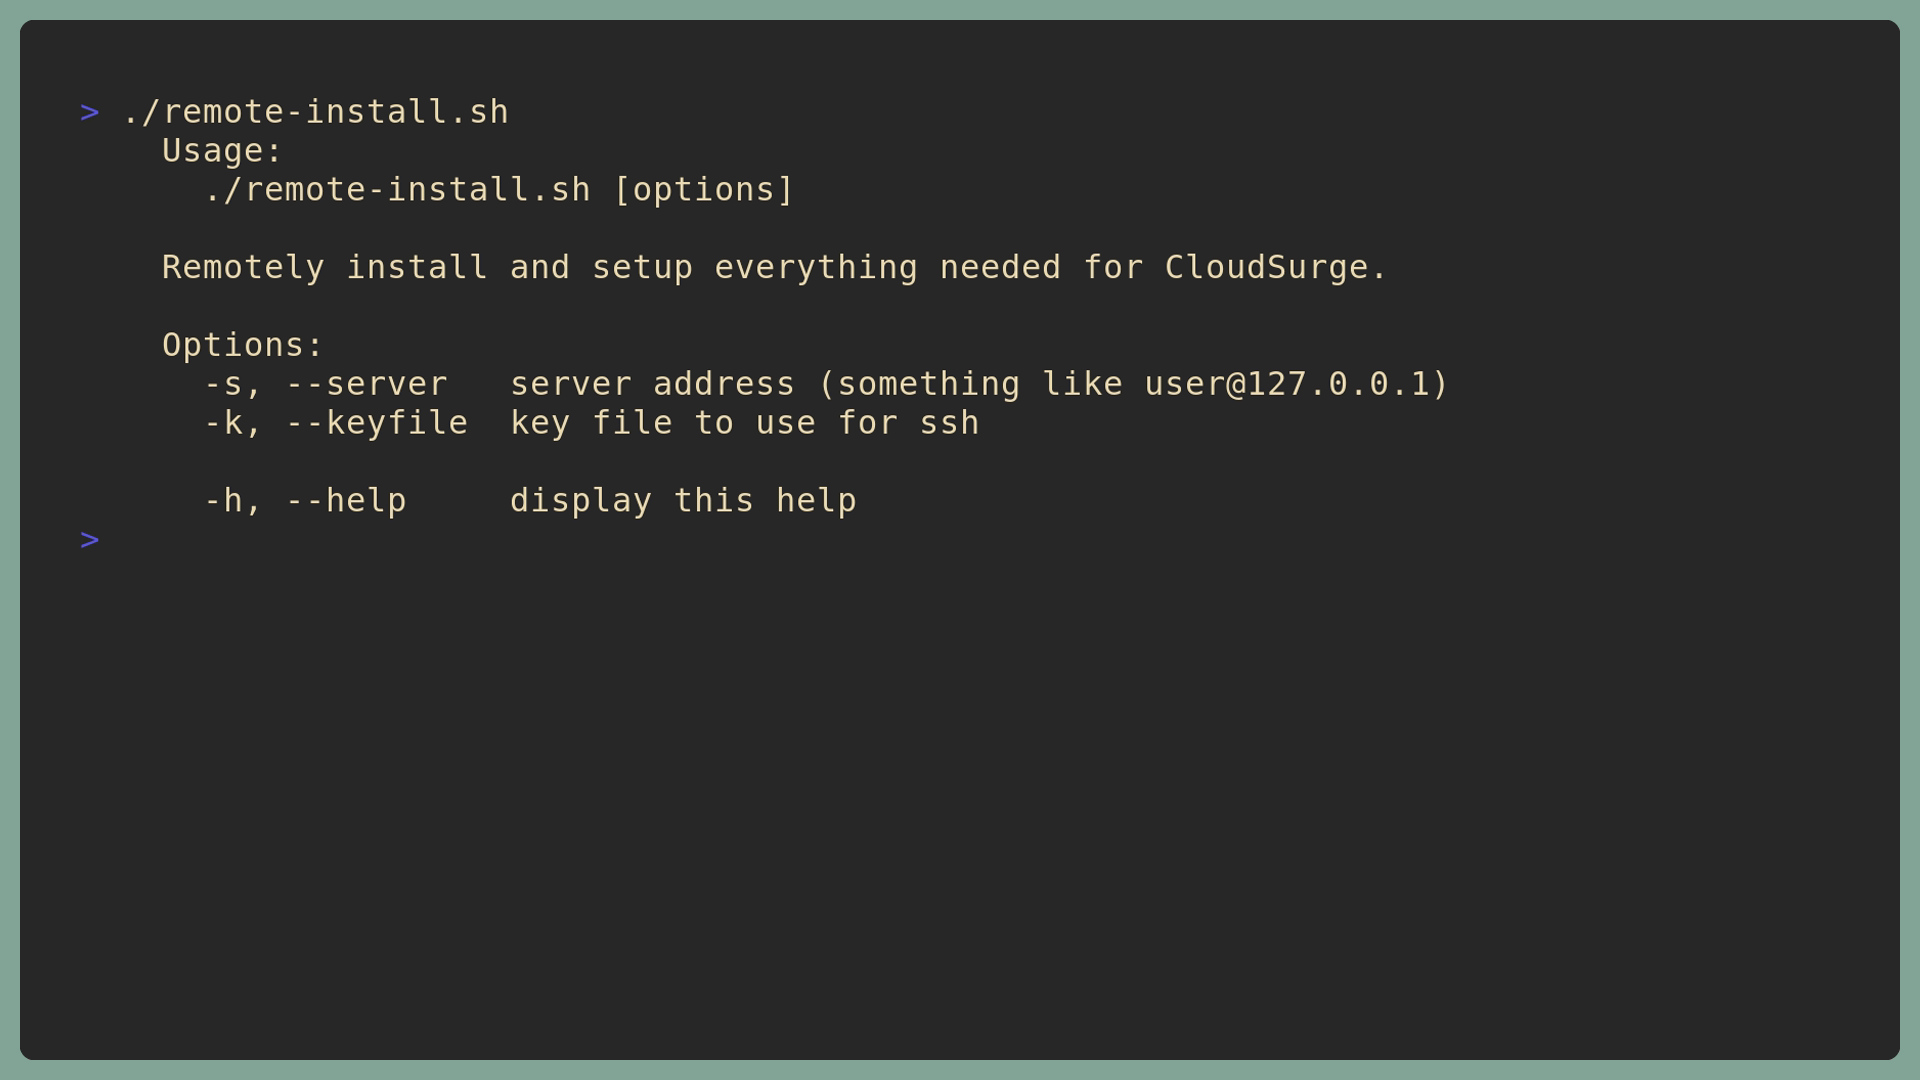
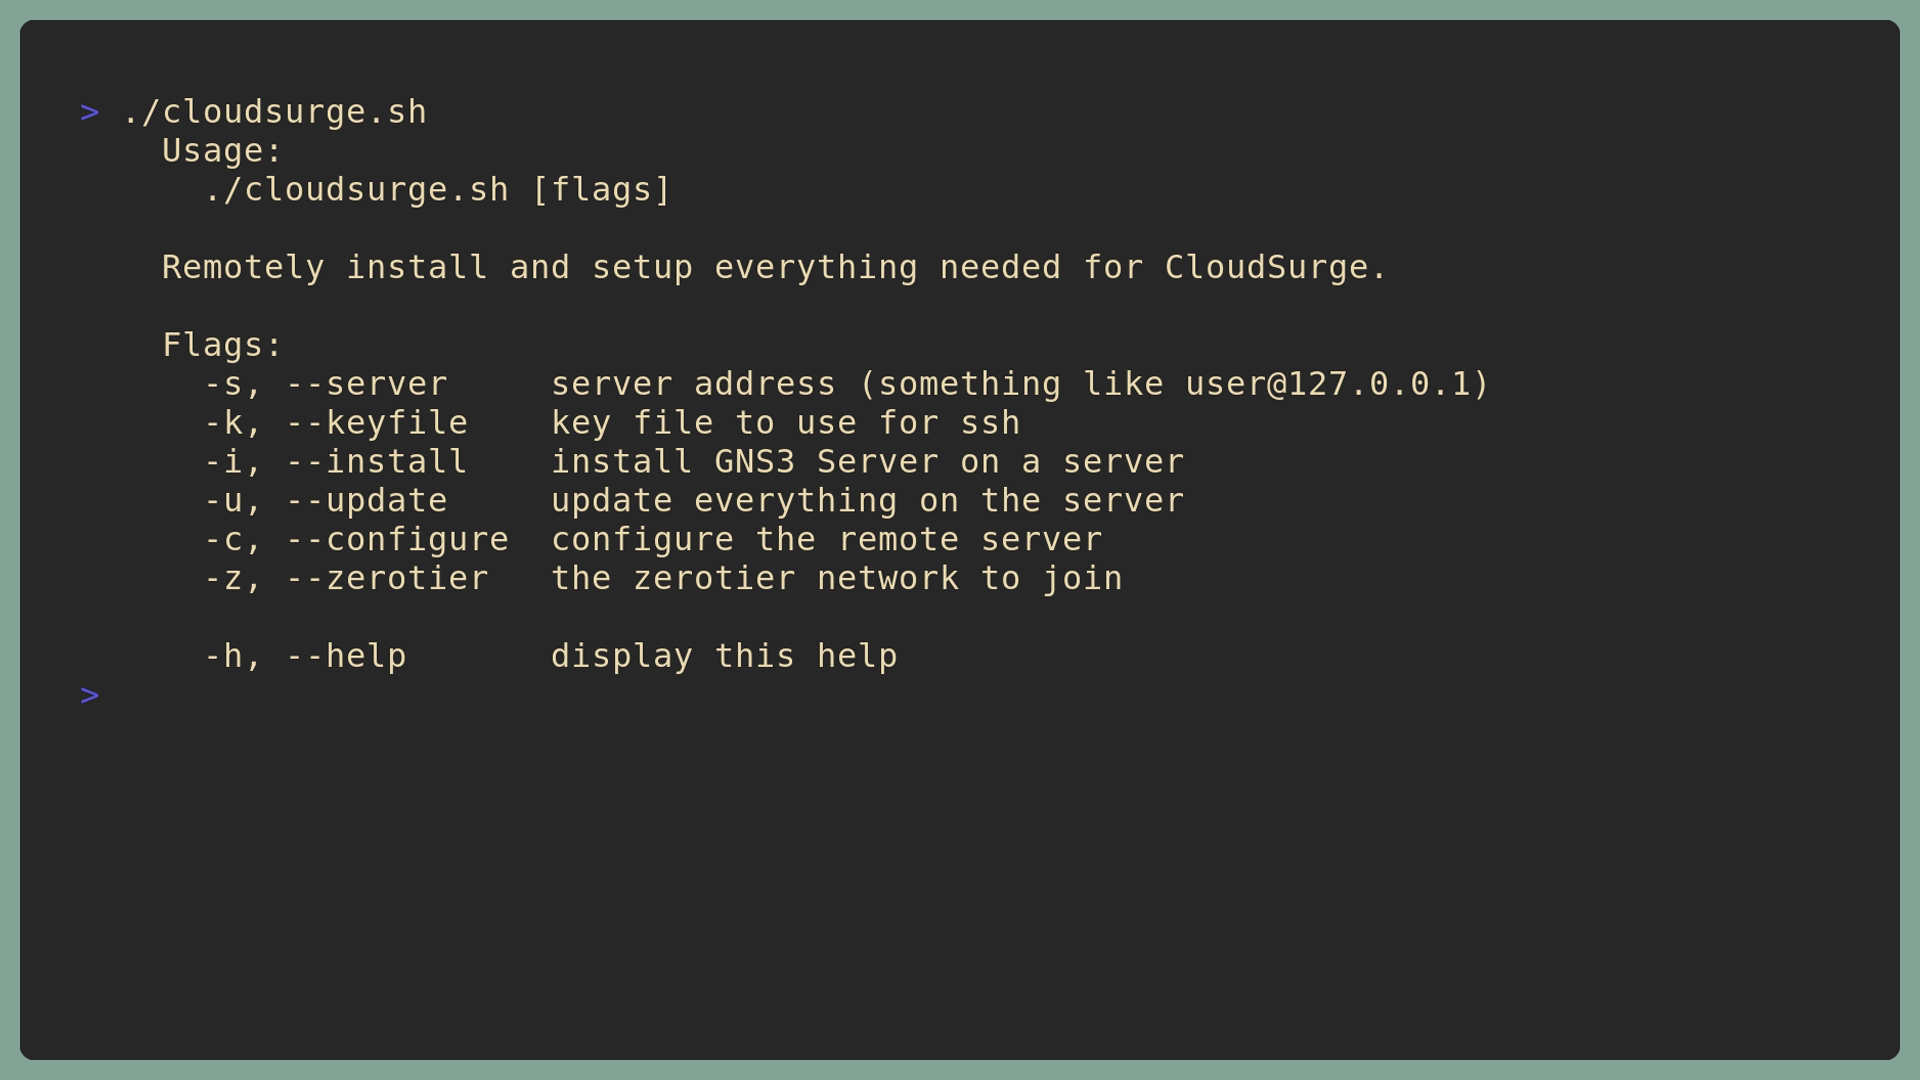
update scripts README and assets

diff --git a/scripts/README.md b/scripts/README.md
@@ -3,16 +3,16 @@
 Here you'll find all the essential scripts powering the magic of CloudSurge.  
 Currently, we have just one script:
 
-- 🛠 `remote-install.sh`
+- 🛠 `cloudsurge.sh`
 
-## 🛠 `remote-install.sh`
+## 🛠 `cloudsurge.sh`
 
 ### 📖 Usage
 
 📸 _Screenshot of usage:_  
-![📸 A screenshot of the usage of `remote-install.sh` script](assets/usage.png "📸 A screenshot of the usage of `remote-install.sh` script")
+![📸 A screenshot of the usage of `cloudsurge.sh`](assets/usage.png "📸 A screenshot of the usage of `cloudsurge.sh`")
 
 ### 🎥 Demo
 
 ✨ _See it in action:_  
-![🎥 A demo of `remote-install.sh` script](assets/demo.gif "🎥 A demo of `remote-install.sh` script")
+![🎥 A demo of `cloudsurge.sh`](assets/demo.gif "🎥 A demo of `cloudsurge.sh`")
